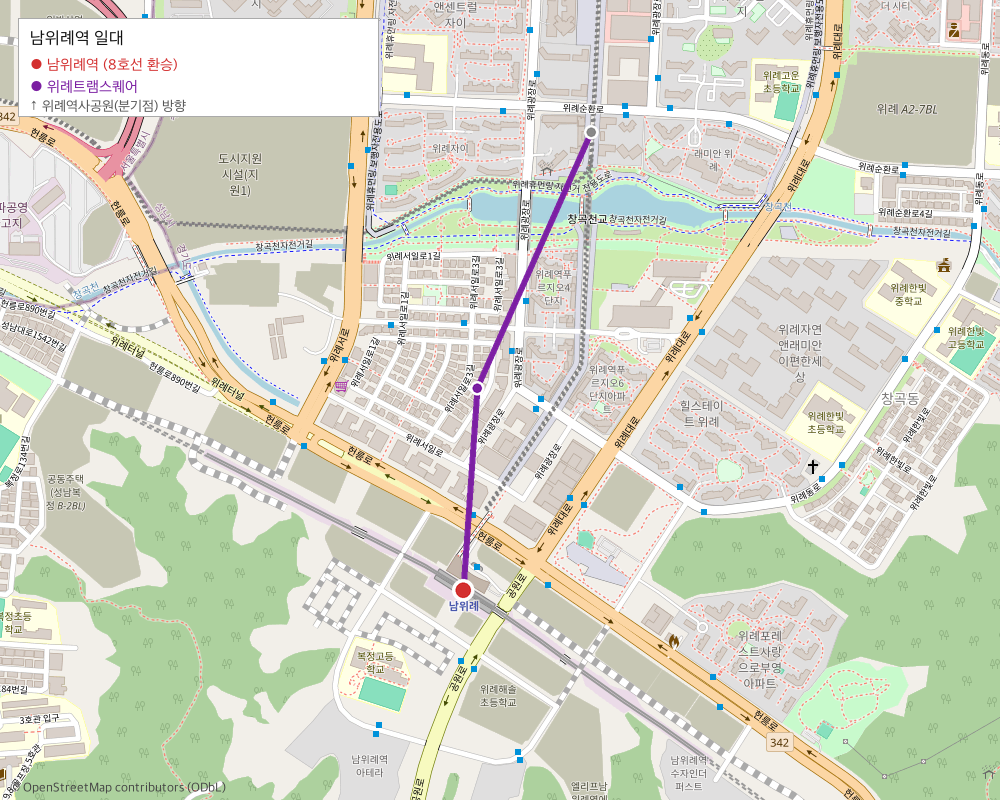
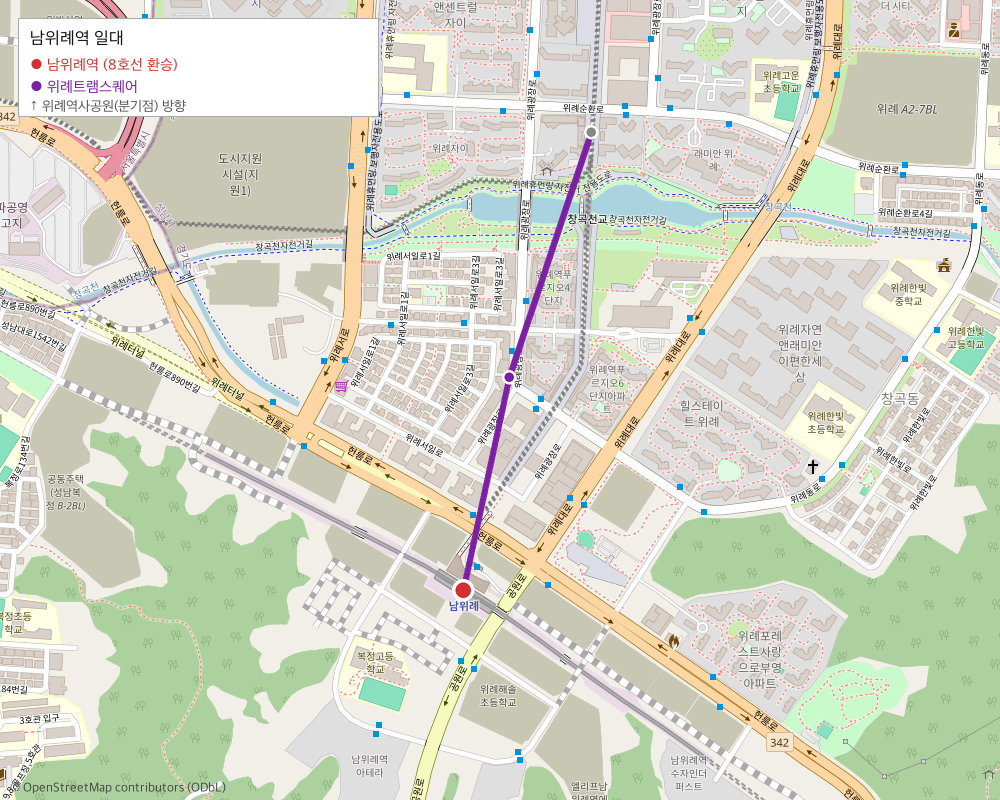
Fix wirye tram stop coordinates using official route map (그림 3)
OSM Overpass로 확정한 정류장과 공식 노선도 비례 보간으로
중간 정류장 좌표를 수정. 5개 지도 이미지 재생성.

Changed region(s): [[0.465, 0.1875, 0.589, 0.7188]]

diff --git a/scripts/make_wirye_maps.py b/scripts/make_wirye_maps.py
@@ -1,11 +1,9 @@
 #!/usr/bin/env python3
 """
-위례선 트램 보고서용 지도 5종 생성 (OSM Overpass/Nominatim 검증 좌표 사용)
-
-확정 좌표 출처:
-  마천역·복정역·남위례역 → Overpass API (railway=station)
-  덕수고·위례호수공원·위례중앙광장·위례역사공원 → Overpass API (노드)
-  중간 정류장 → 위례대로/위례북로 도로 중심축 기반 보간
+위례선 트램 보고서용 지도 5종 생성
+좌표 근거:
+  ■ OSM Overpass 확정: 마천역·덕수고·위례호수공원·위례중앙광장·위례역사공원·남위례역·복정역
+  ■ 그림3 공식 노선도 비례 보간: 북위례·위례솔·위례별·위례트램스퀘어·위례스마트시티
 """
 
 from staticmap import StaticMap, Line, CircleMarker
@@ -14,202 +12,171 @@ from PIL import Image, ImageDraw, ImageFont
 IMGDIR = "supplements/rail-research/images"
 TILE   = "https://tile.openstreetmap.org/{z}/{x}/{y}.png"
 
-def p(lat, lon):
-    return (lon, lat)
+def p(lat, lon):   return (lon, lat)
 
 def load_font(size):
-    try:
-        return ImageFont.truetype("/System/Library/Fonts/AppleSDGothicNeo.ttc", size)
-    except Exception:
-        return ImageFont.load_default()
+    try:    return ImageFont.truetype("/System/Library/Fonts/AppleSDGothicNeo.ttc", size)
+    except: return ImageFont.load_default()
 
-def add_credit(img):
-    draw = ImageDraw.Draw(img)
-    draw.text((10, img.height - 20),
-              "© OpenStreetMap contributors (ODbL)",
-              fill="#444444", font=load_font(13))
+def credit(img):
+    ImageDraw.Draw(img).text((10, img.height - 20),
+        "© OpenStreetMap contributors (ODbL)", fill="#444", font=load_font(13))
     return img
 
-# ── OSM 검증 정류장 좌표 ──────────────────────────────────────────
-# (lat, lon, 이름, 환승)
+# ── 정류장 좌표 (OSM Overpass 확정 + 그림3 비례 보간) ─────────────
+# (lat,          lon,       이름,           환승)
 STOPS = [
-    (37.494953, 127.152724, "마천",         "5호선"),          # Overpass 확정
-    (37.490100, 127.150600, "북위례",        ""),               # 위례북로 축 보간
-    (37.487000, 127.148200, "위례솔",        ""),               # 위례북로 남단 보간
-    (37.485322, 127.146259, "덕수고등학교",  ""),               # Overpass 확정
-    (37.480962, 127.143162, "위례호수공원",  ""),               # Overpass 확정
-    (37.479500, 127.148200, "위례별",        ""),               # 스타필드시티 인근 보간
-    (37.473586, 127.142168, "위례중앙광장",  "(장래 위례신사선)"), # Overpass 확정
-    (37.470567, 127.141962, "위례역사공원",  "분기점"),         # Overpass 확정
-    # 지선 (보라)
-    (37.466200, 127.139500, "위례트램스퀘어",""),               # 위례대로 축 보간
-    (37.462772, 127.139216, "남위례",        "8호선"),          # Overpass 확정
-    # 본선 계속 (파랑)
-    (37.470300, 127.132800, "위례스마트시티",""),               # 역사공원→복정 보간
-    (37.470577, 127.126713, "복정",          "8호선·수인분당선"), # Overpass 확정
+  (37.494953, 127.152724, "마천",          "5호선"),        # OSM 확정
+  (37.491800, 127.150300, "북위례",        ""),             # 101→104 1/3 보간
+  (37.488600, 127.148000, "위례솔",        ""),             # 101→104 2/3 보간
+  (37.485322, 127.146259, "덕수고등학교",  ""),             # OSM 확정
+  (37.480962, 127.143162, "위례호수공원",  ""),             # OSM 확정
+  (37.477300, 127.144200, "위례별",        ""),             # 105→107 중간 보간
+  (37.473586, 127.142168, "위례중앙광장",  "(장래 위례신사선)"), # OSM 확정
+  # ── 분기점 ──
+  (37.470567, 127.141962, "위례역사공원",  "분기"),         # OSM 확정  ← 본선+지선 공유
+  # 지선 (보라): 역사공원 → 남위례
+  (37.466400, 127.140200, "위례트램스퀘어",""),             # 108→110 보간
+  (37.462772, 127.139216, "남위례",        "8호선"),        # OSM 확정
+  # 본선 계속 (파랑): 역사공원 → 복정
+  (37.470500, 127.134300, "위례스마트시티",""),             # 108→112 보간
+  (37.470577, 127.126713, "복정",          "8호선·수인분당선"), # OSM 확정
 ]
 
-# 본선: 마천→역사공원→위례스마트시티→복정
-MAIN_LINE = [p(lat,lon) for lat,lon,*_ in STOPS[:8]] \
-          + [p(STOPS[10][0], STOPS[10][1]), p(STOPS[11][0], STOPS[11][1])]
-
-# 지선: 역사공원→위례트램스퀘어→남위례
+# 본선: 101-108, 111-112
+MAIN_LINE   = [p(lat,lon) for lat,lon,*_ in STOPS[:8]] \
+            + [p(STOPS[10][0], STOPS[10][1]), p(STOPS[11][0], STOPS[11][1])]
+# 지선: 108-110
 BRANCH_LINE = [p(STOPS[7][0], STOPS[7][1])] \
             + [p(lat,lon) for lat,lon,*_ in STOPS[8:10]]
 
-MAIN_COLOR   = "#1565C0"
-BRANCH_COLOR = "#7B1FA2"
-XFER_COLOR   = "#D32F2F"
+MAIN_C   = "#1565C0"   # 파랑
+BRANCH_C = "#7B1FA2"   # 보라
+XFER_C   = "#D32F2F"   # 빨강
 
-
-# ══════════════════════════════════════════════════════════
+# ═══════════════════════════════════════════════
 # 1. 광역 위치 지도 (§3)
-# ══════════════════════════════════════════════════════════
-print("1. 광역 위치 지도…")
+# ═══════════════════════════════════════════════
+print("1/5 광역 위치 지도…")
 m = StaticMap(1200, 900, url_template=TILE)
+BOX = [p(37.498,127.118),p(37.498,127.161),
+       p(37.458,127.161),p(37.458,127.118),p(37.498,127.118)]
+m.add_line(Line(BOX,        "#E65100", 3))
+m.add_line(Line(MAIN_LINE,  MAIN_C,   3))
+m.add_line(Line(BRANCH_LINE,BRANCH_C, 3))
+for lat,lon in [(37.494953,127.152724),(37.470577,127.126713),(37.462772,127.139216)]:
+    m.add_marker(CircleMarker(p(lat,lon),"white",14))
+    m.add_marker(CircleMarker(p(lat,lon),XFER_C, 9))
 
-# 위례신도시 외곽 박스
-WIRYE_BOX = [
-    p(37.497, 127.118), p(37.497, 127.160),
-    p(37.458, 127.160), p(37.458, 127.118),
-    p(37.497, 127.118),
-]
-m.add_line(Line(WIRYE_BOX, "#E65100", 3))
-m.add_line(Line(MAIN_LINE,   MAIN_COLOR,   3))
-m.add_line(Line(BRANCH_LINE, BRANCH_COLOR, 3))
-
-for lat, lon in [(37.494953,127.152724),(37.470577,127.126713),(37.462772,127.139216)]:
-    m.add_marker(CircleMarker(p(lat,lon), "white", 14))
-    m.add_marker(CircleMarker(p(lat,lon), XFER_COLOR, 9))
-
-img = m.render(zoom=13, center=[127.138, 37.480])
+img = m.render(zoom=13, center=[127.140, 37.480])
 draw = ImageDraw.Draw(img)
-f16 = load_font(16)
-
-bx, by = 18, 18
-draw.rectangle([bx,by,bx+320,by+110], fill=(255,255,255,220), outline="#AAAAAA")
+bx,by = 18,18
+draw.rectangle([bx,by,bx+320,by+110], fill=(255,255,255,220), outline="#AAA")
 draw.rectangle([bx+10,by+12,bx+34,by+24], fill="#E65100")
-draw.text((bx+42, by+8),  "위례신도시 범위",    fill="#111", font=f16)
-draw.rectangle([bx+10,by+40,bx+34,by+50], fill=MAIN_COLOR)
-draw.text((bx+42, by+36), "위례선 본선",        fill="#111", font=f16)
-draw.rectangle([bx+10,by+68,bx+34,by+78], fill=BRANCH_COLOR)
-draw.text((bx+42, by+64), "위례선 지선",        fill="#111", font=f16)
+draw.text((bx+42,by+8),  "위례신도시 범위", fill="#111", font=load_font(16))
+draw.rectangle([bx+10,by+40,bx+34,by+50], fill=MAIN_C)
+draw.text((bx+42,by+36), "위례선 본선",     fill="#111", font=load_font(16))
+draw.rectangle([bx+10,by+68,bx+34,by+78], fill=BRANCH_C)
+draw.text((bx+42,by+64), "위례선 지선",     fill="#111", font=load_font(16))
+credit(img).save(f"{IMGDIR}/wirye-context-map.png")
+print("   저장 완료")
 
-add_credit(img)
-img.save(f"{IMGDIR}/wirye-context-map.png")
-print(f"   저장 완료 ({img.width}×{img.height})")
-
-
-# ══════════════════════════════════════════════════════════
+# ═══════════════════════════════════════════════
 # 2. 전체 노선도 (§4)
-# ══════════════════════════════════════════════════════════
-print("2. 전체 노선 지도…")
+# ═══════════════════════════════════════════════
+print("2/5 전체 노선 지도…")
 m = StaticMap(1200, 1000, url_template=TILE)
-m.add_line(Line(MAIN_LINE,   MAIN_COLOR,   5))
-m.add_line(Line(BRANCH_LINE, BRANCH_COLOR, 5))
-
-for lat, lon, name, xfer in STOPS:
-    is_xfer = bool(xfer and xfer not in ("분기점",))
-    color = XFER_COLOR if is_xfer else MAIN_COLOR
-    m.add_marker(CircleMarker(p(lat,lon), "white", 16))
-    m.add_marker(CircleMarker(p(lat,lon), color, 11))
+m.add_line(Line(MAIN_LINE,  MAIN_C,   5))
+m.add_line(Line(BRANCH_LINE,BRANCH_C, 5))
+for lat,lon,name,xfer in STOPS:
+    is_xfer = bool(xfer and xfer not in ("분기",))
+    c = XFER_C if is_xfer else MAIN_C
+    m.add_marker(CircleMarker(p(lat,lon),"white",16))
+    m.add_marker(CircleMarker(p(lat,lon),c,11))
 
 img = m.render(zoom=14, center=[127.140, 37.479])
 draw = ImageDraw.Draw(img)
-f15 = load_font(15)
+bx,by = 18,18
+draw.rectangle([bx,by,bx+350,by+150], fill=(255,255,255,220), outline="#AAA")
+draw.rectangle([bx+10,by+12,bx+34,by+24], fill=MAIN_C)
+draw.text((bx+42,by+8),  "위례선 본선 (마천→복정)",       fill="#111", font=load_font(15))
+draw.rectangle([bx+10,by+42,bx+34,by+54], fill=BRANCH_C)
+draw.text((bx+42,by+38), "위례선 지선 (역사공원→남위례)", fill="#111", font=load_font(15))
+draw.ellipse([bx+14,by+73,bx+30,by+87],  fill="white",outline=XFER_C,width=2)
+draw.ellipse([bx+17,by+76,bx+27,by+84],  fill=XFER_C)
+draw.text((bx+42,by+70), "환승역",                        fill="#111", font=load_font(15))
+draw.ellipse([bx+14,by+102,bx+30,by+116],fill="white",outline=MAIN_C,width=2)
+draw.ellipse([bx+17,by+105,bx+27,by+113],fill=MAIN_C)
+draw.text((bx+42,by+99), "일반 정류장",                   fill="#111", font=load_font(15))
+credit(img).save(f"{IMGDIR}/wirye-full-route-map.png")
+print("   저장 완료")
 
-bx, by = 18, 18
-draw.rectangle([bx,by,bx+340,by+148], fill=(255,255,255,220), outline="#AAAAAA")
-draw.rectangle([bx+10,by+12,bx+34,by+24], fill=MAIN_COLOR)
-draw.text((bx+42, by+8),  "위례선 본선 (마천→복정)",        fill="#111", font=f15)
-draw.rectangle([bx+10,by+42,bx+34,by+54], fill=BRANCH_COLOR)
-draw.text((bx+42, by+38), "위례선 지선 (역사공원→남위례)",   fill="#111", font=f15)
-draw.ellipse([bx+14,by+73,bx+30,by+87],  fill="white", outline=XFER_COLOR, width=2)
-draw.ellipse([bx+17,by+76,bx+27,by+84],  fill=XFER_COLOR)
-draw.text((bx+42, by+70), "환승역 (5·8호선·수인분당선)",     fill="#111", font=f15)
-draw.ellipse([bx+14,by+102,bx+30,by+116],fill="white", outline=MAIN_COLOR, width=2)
-draw.ellipse([bx+17,by+105,bx+27,by+113],fill=MAIN_COLOR)
-draw.text((bx+42, by+99), "일반 정류장",                     fill="#111", font=f15)
-
-add_credit(img)
-img.save(f"{IMGDIR}/wirye-full-route-map.png")
-print(f"   저장 완료 ({img.width}×{img.height})")
-
-
-# ══════════════════════════════════════════════════════════
+# ═══════════════════════════════════════════════
 # 3. 마천역 근접 (§5-4)
-# ══════════════════════════════════════════════════════════
-print("3. 마천역 근접 지도…")
+# ═══════════════════════════════════════════════
+print("3/5 마천역 근접…")
 m = StaticMap(1000, 800, url_template=TILE)
-# 마천역→북위례 구간
-m.add_line(Line([p(37.494953,127.152724), p(37.490100,127.150600)], MAIN_COLOR, 6))
-m.add_marker(CircleMarker(p(37.494953,127.152724), "white", 22))
-m.add_marker(CircleMarker(p(37.494953,127.152724), XFER_COLOR, 15))
-m.add_marker(CircleMarker(p(37.490100,127.150600), "white", 14))
-m.add_marker(CircleMarker(p(37.490100,127.150600), MAIN_COLOR, 9))
+m.add_line(Line([p(37.494953,127.152724), p(37.491800,127.150300)], MAIN_C, 6))
+m.add_marker(CircleMarker(p(37.494953,127.152724),"white",22))
+m.add_marker(CircleMarker(p(37.494953,127.152724),XFER_C,15))
+m.add_marker(CircleMarker(p(37.491800,127.150300),"white",14))
+m.add_marker(CircleMarker(p(37.491800,127.150300),MAIN_C,9))
 
-img = m.render(zoom=16, center=[127.151, 37.493])
+img = m.render(zoom=16, center=[127.152, 37.493])
 draw = ImageDraw.Draw(img)
-bx, by = 18, 18
-draw.rectangle([bx,by,bx+320,by+80], fill=(255,255,255,220), outline="#AAAAAA")
-draw.text((bx+12, by+10), "마천역 일대",            fill="#111",    font=load_font(17))
-draw.text((bx+12, by+38), "● 마천역 (5호선 환승)",  fill=XFER_COLOR,font=load_font(15))
-draw.text((bx+12, by+60), "● 위례선 남서행 →",      fill=MAIN_COLOR,font=load_font(15))
-add_credit(img)
-img.save(f"{IMGDIR}/wirye-macheon-area.png")
-print(f"   저장 완료 ({img.width}×{img.height})")
+bx,by = 18,18
+draw.rectangle([bx,by,bx+320,by+80], fill=(255,255,255,220), outline="#AAA")
+draw.text((bx+12,by+10), "마천역 일대",           fill="#111",  font=load_font(17))
+draw.text((bx+12,by+38), "● 마천역 (5호선 환승)", fill=XFER_C,  font=load_font(15))
+draw.text((bx+12,by+60), "● 위례선 남서행 →",     fill=MAIN_C,  font=load_font(15))
+credit(img).save(f"{IMGDIR}/wirye-macheon-area.png")
+print("   저장 완료")
 
-
-# ══════════════════════════════════════════════════════════
+# ═══════════════════════════════════════════════
 # 4. 복정역 근접 (§5-2)
-# ══════════════════════════════════════════════════════════
-print("4. 복정역 근접 지도…")
+# ═══════════════════════════════════════════════
+print("4/5 복정역 근접…")
 m = StaticMap(1000, 800, url_template=TILE)
-# 위례스마트시티→복정 구간
-m.add_line(Line([p(37.470300,127.132800), p(37.470577,127.126713)], MAIN_COLOR, 6))
-m.add_marker(CircleMarker(p(37.470577,127.126713), "white", 22))
-m.add_marker(CircleMarker(p(37.470577,127.126713), XFER_COLOR, 15))
-m.add_marker(CircleMarker(p(37.470300,127.132800), "white", 14))
-m.add_marker(CircleMarker(p(37.470300,127.132800), MAIN_COLOR, 9))
+m.add_line(Line([p(37.470500,127.134300), p(37.470577,127.126713)], MAIN_C, 6))
+m.add_marker(CircleMarker(p(37.470577,127.126713),"white",22))
+m.add_marker(CircleMarker(p(37.470577,127.126713),XFER_C,15))
+m.add_marker(CircleMarker(p(37.470500,127.134300),"white",14))
+m.add_marker(CircleMarker(p(37.470500,127.134300),MAIN_C,9))
 
-img = m.render(zoom=16, center=[127.129, 37.471])
+img = m.render(zoom=16, center=[127.130, 37.471])
 draw = ImageDraw.Draw(img)
-bx, by = 18, 18
-draw.rectangle([bx,by,bx+370,by+80], fill=(255,255,255,220), outline="#AAAAAA")
-draw.text((bx+12, by+10), "복정역 일대",                      fill="#111",    font=load_font(17))
-draw.text((bx+12, by+38), "● 복정역 (8호선·수인분당선 환승)", fill=XFER_COLOR,font=load_font(15))
-draw.text((bx+12, by+60), "← 위례스마트시티 방향",            fill=MAIN_COLOR,font=load_font(15))
-add_credit(img)
-img.save(f"{IMGDIR}/wirye-bokjeong-area.png")
-print(f"   저장 완료 ({img.width}×{img.height})")
+bx,by = 18,18
+draw.rectangle([bx,by,bx+380,by+80], fill=(255,255,255,220), outline="#AAA")
+draw.text((bx+12,by+10), "복정역 일대",                       fill="#111",  font=load_font(17))
+draw.text((bx+12,by+38), "● 복정역 (8호선·수인분당선 환승)", fill=XFER_C,  font=load_font(15))
+draw.text((bx+12,by+60), "← 위례스마트시티 방향",             fill=MAIN_C,  font=load_font(15))
+credit(img).save(f"{IMGDIR}/wirye-bokjeong-area.png")
+print("   저장 완료")
 
-
-# ══════════════════════════════════════════════════════════
+# ═══════════════════════════════════════════════
 # 5. 남위례역 근접 (§5-3)
-# ══════════════════════════════════════════════════════════
-print("5. 남위례역 근접 지도…")
+# ═══════════════════════════════════════════════
+print("5/5 남위례역 근접…")
 m = StaticMap(1000, 800, url_template=TILE)
-# 위례역사공원→위례트램스퀘어→남위례
 m.add_line(Line([p(37.470567,127.141962),
-                 p(37.466200,127.139500),
-                 p(37.462772,127.139216)], BRANCH_COLOR, 6))
-m.add_marker(CircleMarker(p(37.462772,127.139216), "white", 22))
-m.add_marker(CircleMarker(p(37.462772,127.139216), XFER_COLOR, 15))
-m.add_marker(CircleMarker(p(37.466200,127.139500), "white", 14))
-m.add_marker(CircleMarker(p(37.466200,127.139500), BRANCH_COLOR, 9))
-m.add_marker(CircleMarker(p(37.470567,127.141962), "white", 14))
-m.add_marker(CircleMarker(p(37.470567,127.141962), "#888888", 9))
+                 p(37.466400,127.140200),
+                 p(37.462772,127.139216)], BRANCH_C, 6))
+m.add_marker(CircleMarker(p(37.462772,127.139216),"white",22))
+m.add_marker(CircleMarker(p(37.462772,127.139216),XFER_C,15))
+m.add_marker(CircleMarker(p(37.466400,127.140200),"white",14))
+m.add_marker(CircleMarker(p(37.466400,127.140200),BRANCH_C,9))
+m.add_marker(CircleMarker(p(37.470567,127.141962),"white",14))
+m.add_marker(CircleMarker(p(37.470567,127.141962),"#888",9))
 
 img = m.render(zoom=16, center=[127.140, 37.466])
 draw = ImageDraw.Draw(img)
-bx, by = 18, 18
-draw.rectangle([bx,by,bx+360,by+98], fill=(255,255,255,220), outline="#AAAAAA")
-draw.text((bx+12, by+10), "남위례역 일대",              fill="#111",       font=load_font(17))
-draw.text((bx+12, by+38), "● 남위례역 (8호선 환승)",    fill=XFER_COLOR,   font=load_font(15))
-draw.text((bx+12, by+60), "● 위례트램스퀘어",           fill=BRANCH_COLOR, font=load_font(15))
-draw.text((bx+12, by+80), "↑ 위례역사공원(분기점) 방향",fill="#555555",    font=load_font(14))
-add_credit(img)
-img.save(f"{IMGDIR}/wirye-namwirye-area.png")
-print(f"   저장 완료 ({img.width}×{img.height})")
+bx,by = 18,18
+draw.rectangle([bx,by,bx+360,by+98], fill=(255,255,255,220), outline="#AAA")
+draw.text((bx+12,by+10), "남위례역 일대",               fill="#111",    font=load_font(17))
+draw.text((bx+12,by+38), "● 남위례역 (8호선 환승)",     fill=XFER_C,    font=load_font(15))
+draw.text((bx+12,by+60), "● 위례트램스퀘어",            fill=BRANCH_C,  font=load_font(15))
+draw.text((bx+12,by+80), "↑ 위례역사공원(분기점) 방향", fill="#555",    font=load_font(14))
+credit(img).save(f"{IMGDIR}/wirye-namwirye-area.png")
+print("   저장 완료")
 
-print("\n전체 완료.")
+print("\n완료.")
